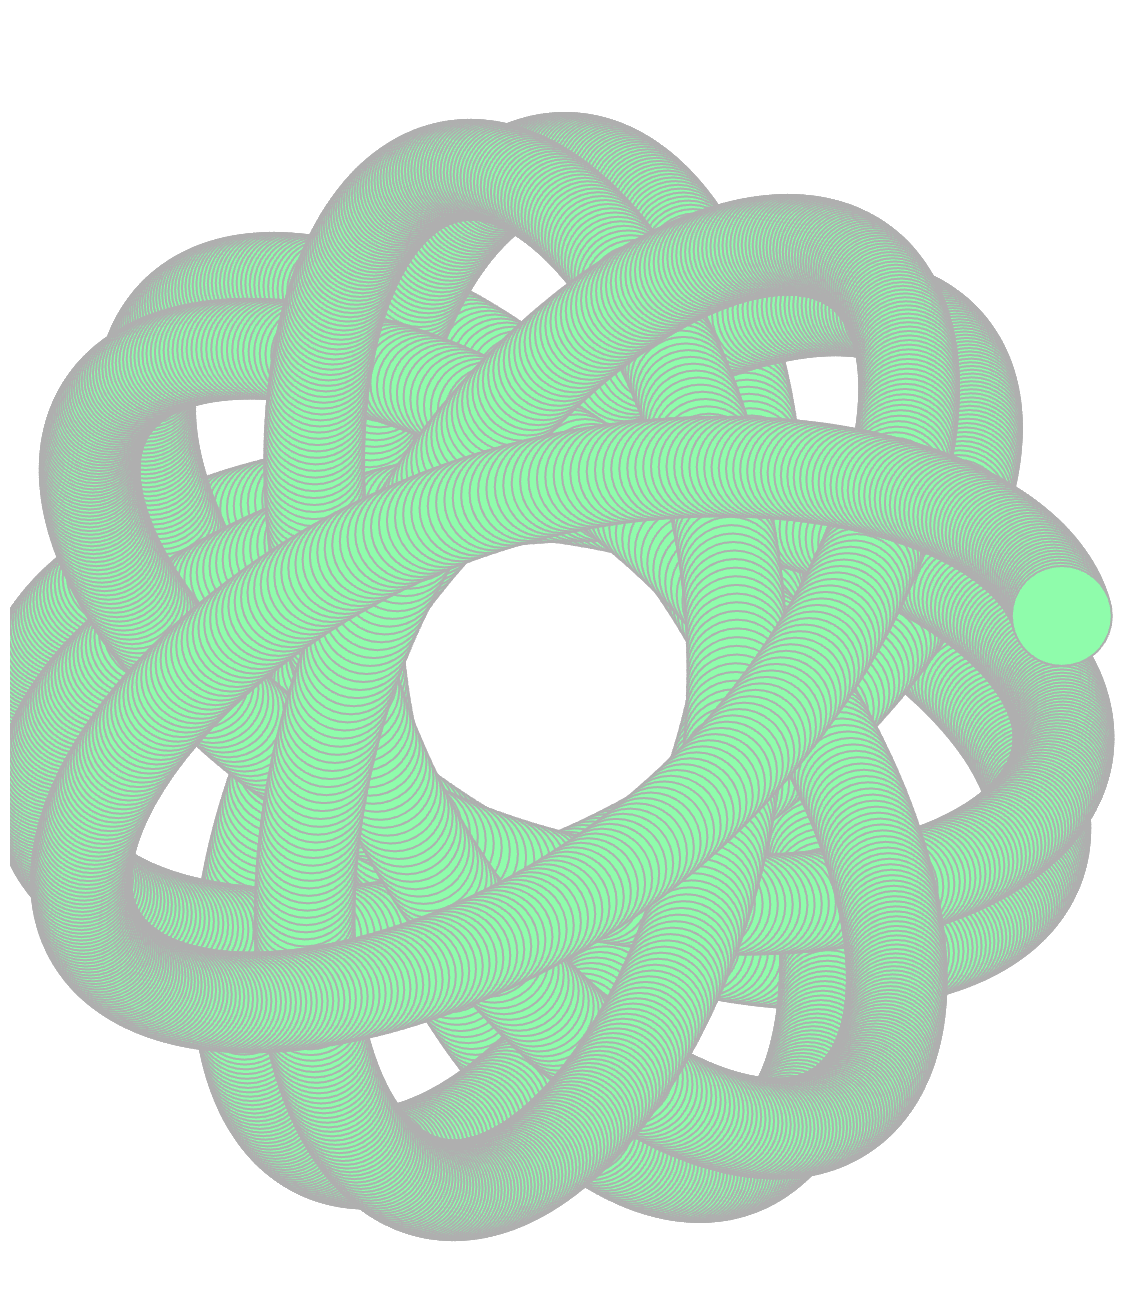
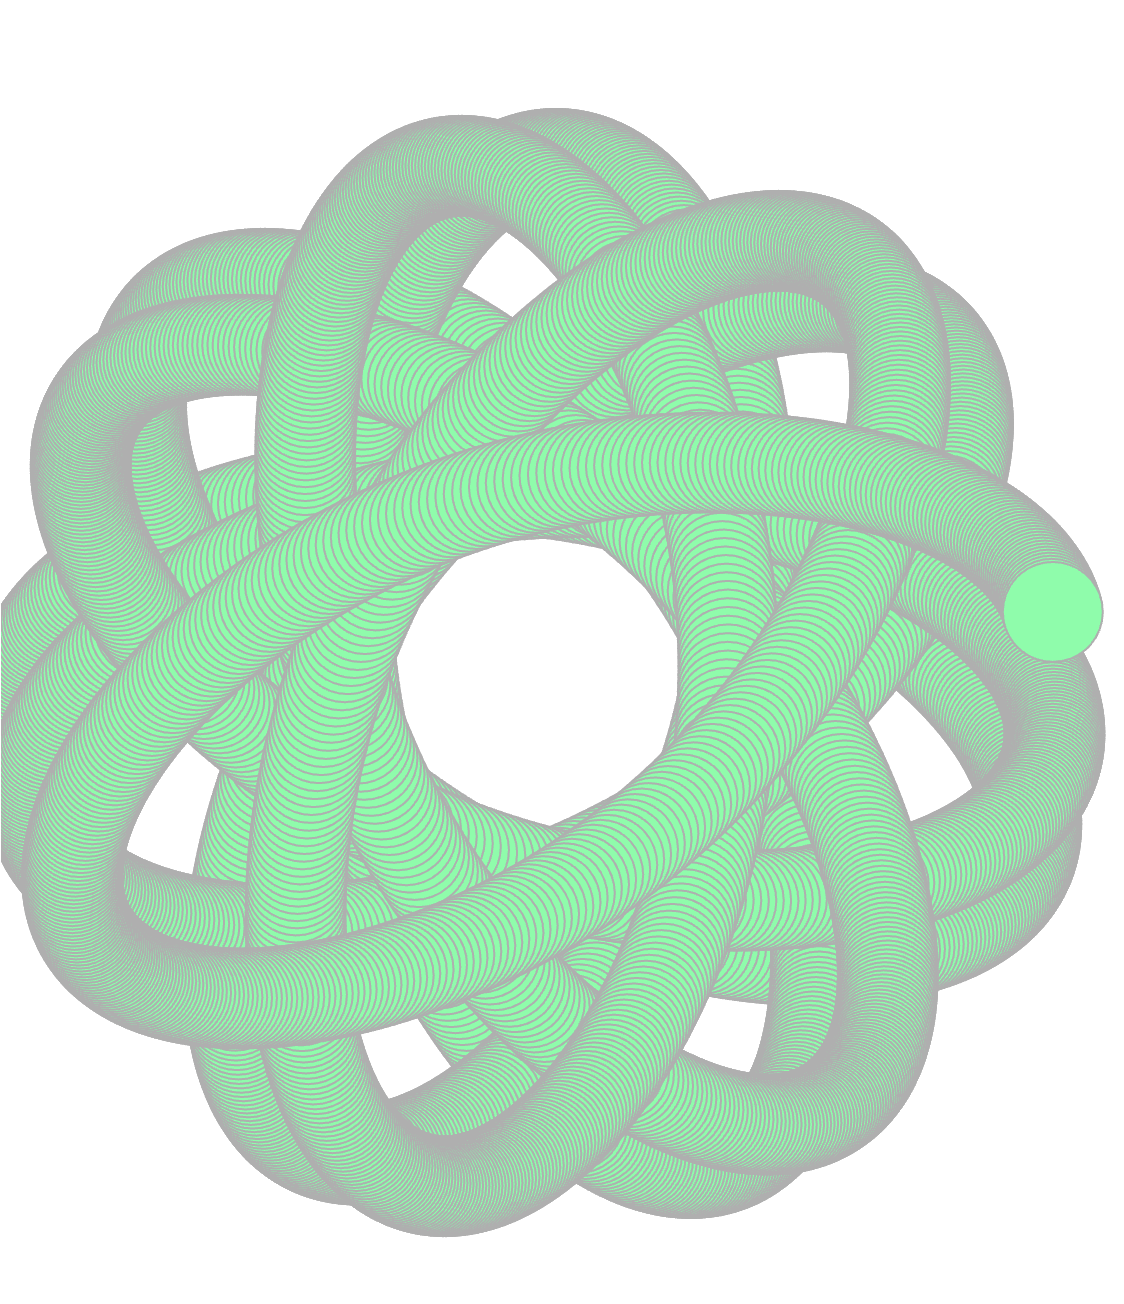
Delete ugly padding and Korean text

Changed region(s): [[0.0, 0.092, 0.9964, 0.9509]]

diff --git a/works/empty.html b/works/empty.html
@@ -20,16 +20,15 @@
             </div>
                 
             <section class="art-card">
-                <div class="info">
+                <div class="text info">
                     <h3>Empty</h3>
                     <p class="meta-info">2022, experimental film, black&white, 7' 31''</p>
                     <div class="description">
                         <p style="font-weight: bold">Logline</p>
                         <p>Having long been lost, A drifts through the city until finally meeting B.</p>
-                        <p style="margin-bottom: 10px">오랫동안 길을 잃은 A가 도시를 헤매다 B를 만난다.</p>
+                        <p style="margin-bottom: 10px"></p>
                         <p style="font-weight: bold">Note</p>
                         <p>The material abundance of the city, sustained at the cost of relentless and rapid change, paradoxically leaves me, as one of its inhabitants, with the feeling that something has been lost. The problem is that I do not know what that lost thing is. The film begins from this loss of orientation. It does not know when A, wandering aimlessly after losing their way, will arrive at a destination, nor does it know what that destination might be. A soon encounters B, and then parts ways with them. In the meeting of these anonymous protagonists, there is both an encounter and a farewell, yet there are no proper names by which to remember one another. Deprived of such names, their encounter, too, dissolves as something temporary and fleeting.</p>
-                        <p>빠른 속도의 변화를 대가로 유지되는 도시의 물질적 풍요는 이곳에 살고 있는 내게 역설적으로 무언가 잃어버린 듯한 느낌을 들게 한다. 문제는 잃어버린 것이 무엇인지 모른다는 것이다. 영화는 그러한 방향 감각의 상실에서 출발한다. 길을 잃고 헤매는 A가 언제쯤 목적지에 도착할 수 있을지, 목적지가 무엇이었는지 영화는 알지 못한다. A는 잠시 후 B를 만나고 헤어진다. 이 익명의 주인공들의 조우에는 만남과 헤어짐은 있으나 그 대상을 기억하기 위한 고유한 이름이 부재하기에 그들의 만남 또한 일시적인 것으로서 소멸한다.</p>
                     </div>
                 </div>
                 <div class="main-images">

diff --git a/works/rocks.html b/works/rocks.html
@@ -5,9 +5,6 @@
     <meta name="viewport" content="width=device-width, initial-scale=1.0">
     <title>Jieun Kim</title>
     <link rel="stylesheet" href="../../style.css">
-
-    <script src="https://cdnjs.cloudflare.com/ajax/libs/p5.js/1.9.0/p5.min.js"></script>
-    <script src="../images/unending-rock/mySketch.js"></script>
 </head>
 <body>
 
@@ -24,15 +21,14 @@
                 
             <section class="art-card">
                 <div class="text info">
-                    <h3>Unending Rock</h3>
+                    <h3>Generated Rocks</h3>
                     <p class="meta-info">2025, Javascript, color</p>
                     <div class="description">
-                        <p></p>
+                        <p>Generated synthetic rocks using <a href="https://p5js.org/examples/angles-and-motion-triangle-strip/">Triangle Strip</a></p>
                     </div>
                 </div>
-                <div id="canvas-container"></div>
                 <div class="main-images">
-                    <!-- <img src="../../images/night alone.png" alt="Night alone image"> -->
+                    <img src="../../images/Rocks.png" alt="Rocks image">
                 </div>
             </section>
 

diff --git a/works/there-is-nothing.html b/works/there-is-nothing.html
@@ -20,12 +20,11 @@
             </div>
                 
             <section class="art-card">
-                <div class="info">
+                <div class="text info">
                     <h3>There is Nothing</h3>
                     <p class="meta-info">2021-2022, photography, black&white</p>
                     <div class="description">
                         <p>An empty space missing its subject and the synthetic gaze of mannequins with whom eye contact is impossible—amidst the audiovisual spectacle of downtown Seoul, the camera is ironically left disoriented, having lost the very subject it ought to behold.</p>
-                        <p>피사체가 없는 빈 공간, 눈을 마주칠 수 없는 마네킹의 인공적인 시선. 시청각적 스펙타클로 가득한 서울 도심 속에서 아이러니하게도 카메라는 마땅히 바라볼 대상을 잃어버린 방향 상실의 상태에 놓여 있다.</p>
                     </div>
                 </div>
                 <div class="main-images">

diff --git a/works/sequence1.html b/works/sequence1.html
@@ -20,12 +20,11 @@
             </div>
                 
             <section class="art-card">
-                <div class="info">
+                <div class="text info">
                     <h3>Sequence1</h3>
                     <p class="meta-info">2023, single-channel video, color, 5'</p>
                     <div class="description">
                         <p>From a bus moving across the city, I record the landscapes unfolding beyond the window. The camera establishes a distance between myself and the subjects before me, yet at the same time, I am carried along with them, immersed in the city's flow.</p>
-                        <p>도시를 가로지르는 버스 안에서 창밖으로 보이는 풍경을 기록한다. 카메라를 든 나는 카메라를 경계로 대상들과 거리를 두면서도 그 대상들과 같이 도시의 흐름에 섞여 들어가 있는 이중적인 경험을 한다.</p>
                     </div>
                 </div>
                 <div class="main-images">

diff --git a/style.css b/style.css
@@ -45,9 +45,13 @@ a {
     
     .content {
         width: 80%;
-        padding: 20px;
+        padding: 20px 0px;
         border-left: 1px solid black;
         font-weight: 500;
+    }
+
+    .content .text {
+        padding: 0px 20px;
     }
 }
 
@@ -177,7 +181,7 @@ a {
     max-width: 650px;
     height: auto;          /* 💡 원본 사진 비율을 절대 깨뜨리지 않고 온전히 보여줍니다 */
     object-fit: contain;   /* 💡 이미지가 크롭(잘림) 없이 전체 다 나오도록 설정 */
-    margin: 4px 4px;
+    margin: 4px 4px 4px 40px;
 }
 
 /* 맨 마지막 이미지 아래에는 쓸데없는 여백이 생기지 않도록 제거 */
@@ -209,6 +213,7 @@ a {
 .back-button-container {
     width: 100%;
     margin-bottom: 40px;   /* 💡 버튼 아래 작품 콘텐츠와의 여유로운 간격 */
+    padding: 0px 10px;
     display: block;
 }
 

diff --git a/works/strange-man.html b/works/strange-man.html
@@ -20,12 +20,11 @@
             </div>
                 
             <section class="art-card">
-                <div class="info">
+                <div class="text info">
                     <h3>Strange Man</h3>
                     <p class="meta-info">2023, photography, color</p>
                     <div class="description">
                         <p>The camera spotted a man in the distance, and moments later he was gone. Photography holds a unique privilege of capturing and preserving a fleeting scene in the life as something eternal.</p>
-                        <p>카메라는 멀리서 한 남자를 발견했고 잠시후 그는 사라졌다. 사진에게는 어떠한 일시적인 풍경을 영원한 것으로 붙잡아둘 수 있는 특권이 있다.</p>
                     </div>
                 </div>
                 <div class="main-images">

diff --git a/works/index.html b/works/index.html
@@ -22,7 +22,13 @@
                 
                 <div class="thumbnails">
                     <a href="./unending-rock.html">
-                        <img src="../images/unending-rock.jpg" alt="unending rock thumbnail">
+                        <img src="../images/unending-rock2.png" alt="unending rock thumbnail">
+                    </a>
+                </div>
+
+                <div class="thumbnails">
+                    <a href="./rocks.html">
+                        <img src="../images/Rocks.png" alt="rocks thumbnail">
                     </a>
                 </div>
 

diff --git a/works/night-alone.html b/works/night-alone.html
@@ -25,7 +25,7 @@
             </div>
                 
             <section class="art-card">
-                <div class="info">
+                <div class="text info">
                     <h3>Night Alone</h3>
                     <p class="meta-info">2025, Javascript, color</p>
                     <div class="description">

diff --git a/contact/index.html b/contact/index.html
@@ -13,7 +13,7 @@
         <nav id="sidebar" class="sidebar"></nav>
 
         <main class="content">
-            <div>
+            <div class="text">
                 <p>Email: jinnykim829@gmail.com</p>
                 <p>Instagram: @jinnyisjinny</p>
             </div>

diff --git a/index.html b/index.html
@@ -16,7 +16,7 @@
         <nav id="sidebar" class="sidebar"></nav>
 
         <main class="content">
-            <div>
+            <div class="text">
                 <p>Welcome!</p>
                 <p>The green ball follows the mouse.</p>
             </div>

diff --git a/about/index.html b/about/index.html
@@ -13,7 +13,7 @@
         <nav id="sidebar" class="sidebar"></nav>
 
         <main class="content">
-            <div>
+            <div class="text">
                 <p>WIP...</p>
             </div>
         </main>
